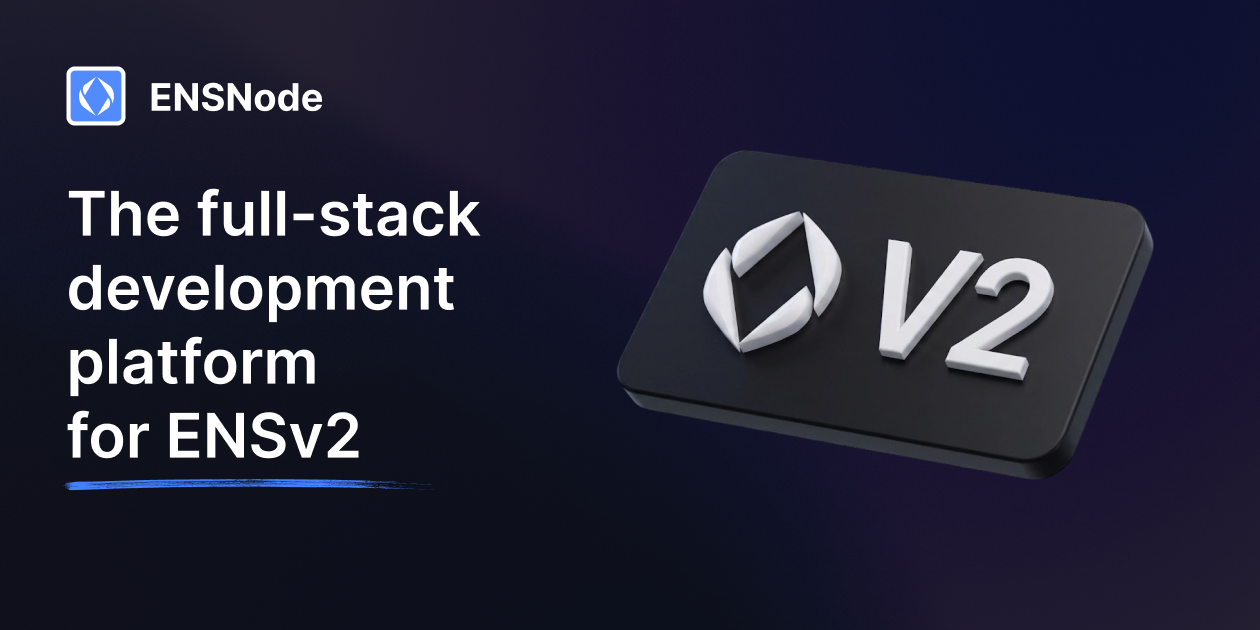
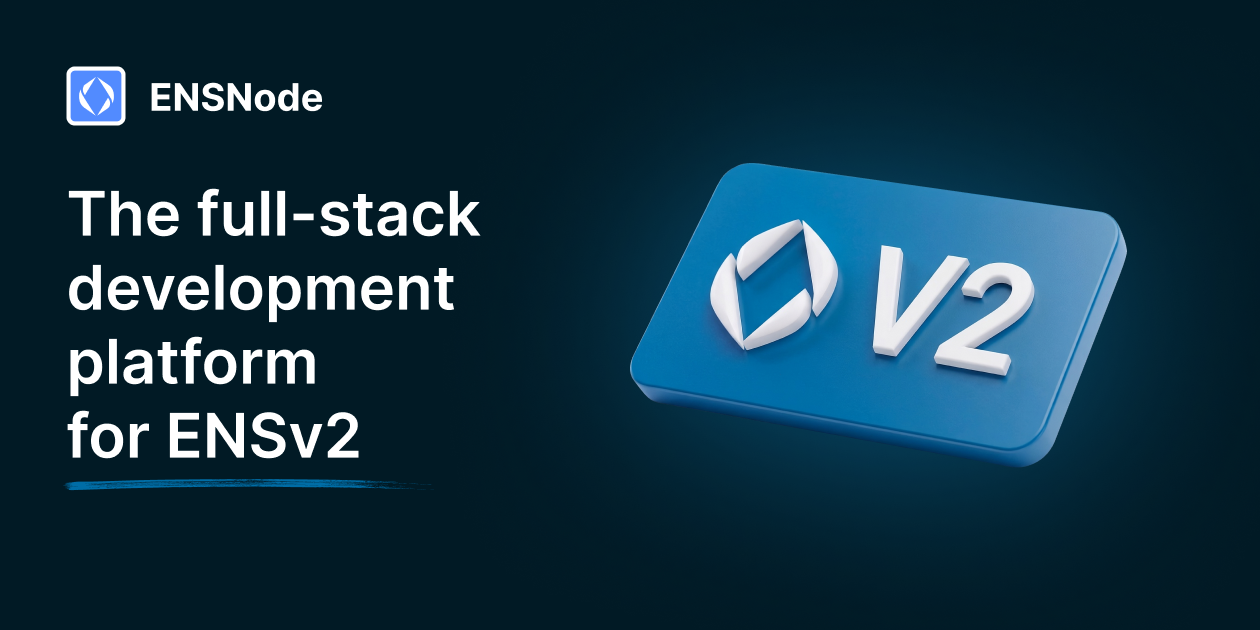
chore(docs): Next tranche of ensnode.io UI/UX refinements (#2201)

Pull request: chore(docs): Next tranche of ensnode.io UI/UX refinements
# Lite PR &rarr; Next tranche of ensnode.io UI/UX refinements

## Summary

Applied all changes requested in the Google Doc linked in the Slack requests, including:
* Restyling of sidebar badges
* Color tweaks for `<Aside>` components
* Color tweaks for text-body links and sidebar selected elements
* Improvements of several docs pages
* Refinements to the styling of code snippets
* Minor bugfixes


---

## Why

- - Changes requested by @user [here](https://namehash.slack.com/archives/C086Z6FNBHN/p1779731277836919)

---

## Testing

- Ran `typecheck`, `lint`, and `test` commands locally to ensure that the migration didn't break anything, and later confirmed that in our CI workflow
- Verified that the UI didn't break after introducing changes using a local and Vercel (build) previews

---

## Notes for Reviewer (Optional)

- Pure UI/UX changes, so I don't think that the changeset log is required
- Feedback item 9 only has a quick fix applied. I'd prefer to add response snippets in a follow-up PR.

---

## Pre-Review Checklist (Blocking)

- [x] This PR does not introduce significant changes and is low-risk to review quickly.
- [x] Relevant changesets are included (or are not required)

diff --git a/docs/ensnode.io/src/styles/starlight.css b/docs/ensnode.io/src/styles/starlight.css
@@ -38,16 +38,16 @@
   --color-gray-950: var(--color-primary-dark);
 
   /* Sidebar active/hover colors */
-  --sidebar-active-bg: rgba(0, 129, 189, 0.1);
-  --sidebar-active-color: #0081bd;
+  --sidebar-active-color: #2563eb;
+  --sidebar-active-bg: color-mix(in srgb, var(--sidebar-active-color) 10%, transparent);
   --sidebar-icon-bg: rgba(128, 128, 128, 0.1);
   --sidebar-icon-color: #9ca3af;
 
   /* Aside colors */
-  --aside-danger-color: #f43f5e;
-  --aside-caution-color: #f97316;
+  --aside-danger-color: #ef4444;
+  --aside-caution-color: #ca8a04;
   --aside-note-color: #3b82f6;
-  --aside-tip-color: #007c23;
+  --aside-tip-color: #16a34a;
 }
 
 /* Starlight-specific variable overrides using global tokens */
@@ -226,6 +226,12 @@ a[rel="prev"]:hover {
   }
 }
 
+.sl-markdown-content > p a:not([role="tab"]):hover,
+.sl-markdown-content :is(ul, ol) > li a:not([role="tab"]):hover,
+starlight-toc a:hover {
+  color: var(--sl-color-accent-high);
+}
+
 .sl-markdown-content :is(h1, h2, h3, h4, h5, h6) > a {
   color: var(--sl-color-white);
   display: inline;
@@ -365,7 +371,7 @@ a.starlight-sidebar-topics-current,
 }
 
 a.starlight-sidebar-topics-current .starlight-sidebar-topics-icon {
-  background-color: rgba(0, 129, 189, 0.15) !important;
+  background-color: color-mix(in srgb, var(--sidebar-active-color) 15%, transparent) !important;
   color: var(--sidebar-active-color) !important;
 }
 
@@ -394,9 +400,31 @@ ul.top-level details details > summary .group-label span {
 }
 
 /* Customize badge styles in the sidebar */
+#starlight__sidebar .sl-badge {
+  font-family: var(--sl-font);
+  font-size: 12px;
+  font-weight: 600 !important;
+  line-height: 14px;
+}
+
 .sl-badge:is(.danger) {
   border-color: var(--aside-danger-color);
   background-color: var(--aside-danger-color);
+}
+
+.sl-badge:is(.success) {
+  border-color: var(--aside-tip-color);
+  background-color: var(--aside-tip-color);
+}
+
+/* Center sidebar badges vertically */
+#starlight__sidebar .group-label:has(.sl-badge) {
+  display: flex;
+  flex-wrap: wrap;
+  flex-direction: row;
+  justify-content: flex-start;
+  align-items: center;
+  gap: 9px;
 }
 
 /* Make sure that social icons in the sidebar do not move on hover */
@@ -470,6 +498,10 @@ starlight-tabs ul[role="tablist"] {
     color: var(--aside-tip-color);
   }
 
+  & code {
+    background-color: color-mix(in srgb, var(--aside-tip-color) 12%, transparent);
+  }
+
   & .sl-link-card:hover {
     border-color: var(--aside-tip-color);
 
@@ -493,6 +525,10 @@ starlight-tabs ul[role="tablist"] {
 
   & a {
     color: var(--aside-danger-color);
+  }
+
+  & code {
+    background-color: color-mix(in srgb, var(--aside-danger-color) 12%, transparent);
   }
 
   & .sl-link-card:hover {
@@ -520,8 +556,12 @@ starlight-tabs ul[role="tablist"] {
     color: var(--aside-caution-color);
   }
 
+  & code {
+    background-color: color-mix(in srgb, var(--aside-caution-color) 12%, transparent);
+  }
+
   & pre {
-    background-color: rgba(103, 61, 73, 0.05);
+    background-color: color-mix(in srgb, var(--aside-caution-color) 5%, transparent);
     border: 1px solid color-mix(in srgb, var(--aside-caution-color) 20%, transparent);
   }
 
@@ -610,4 +650,46 @@ starlight-tabs ul[role="tablist"] {
 }
 .starlight-sidebar-topics a[href*="/reference"] .starlight-sidebar-topics-icon {
   --sidebar-icon: url("../assets/custom-sidebar-icons/reference.svg");
+}
+
+/* Rounded corners for the code snippets in the text-body. */
+
+/* Radius + overflow live on the figure so the horizontal scrollbar inside
+   <pre> gets clipped by the rounded shape instead of overlapping it. */
+.sl-markdown-content .expressive-code .frame:not(.not-content) {
+  border-radius: 12px;
+  overflow: hidden;
+  border-color: color-mix(in srgb, var(--sl-color-gray-5), transparent 25%);
+}
+
+/* Make the background of horizontal scrollbar transparent */
+.sl-markdown-content .expressive-code pre::-webkit-scrollbar {
+  background: transparent;
+}
+
+/* Add margin to the scrollbar track to prevent it from touching the rounded corners */
+.sl-markdown-content .expressive-code pre::-webkit-scrollbar-track {
+  margin-inline: 12px;
+}
+
+/* Other elements are rounded accordingly */
+.sl-markdown-content .expressive-code figcaption:is(.header),
+.sl-markdown-content .expressive-code figcaption:is(.header) > span {
+  border-top-left-radius: 12px;
+  border-top-right-radius: 12px;
+}
+
+.sl-markdown-content .expressive-code pre {
+  border-bottom-left-radius: 12px;
+  border-bottom-right-radius: 12px;
+}
+
+.sl-markdown-content div[role="tabpanel"] > .expressive-code:not(:has(figcaption:not(:empty))) pre {
+  border-radius: 12px;
+}
+
+/* Additional border for the "filename" tab in the code snippets */
+.sl-markdown-content .expressive-code figcaption:is(.header):has(.title:not(:empty)) > span {
+  border-right: 1px solid var(--color-border);
+  border-top: 1px solid var(--color-border);
 }

diff --git a/docs/ensnode.io/config/integrations/starlight/sidebar-topics/integrate.ts b/docs/ensnode.io/config/integrations/starlight/sidebar-topics/integrate.ts
@@ -1,4 +1,5 @@
 export const integrateSidebarTopic = {
+  id: "integrate-with-ensv2",
   label: "Integrate with ENSv2",
   link: "/docs/integrate",
   icon: "rocket",
@@ -185,31 +186,11 @@ export const integrateSidebarTopic = {
         },
         {
           label: "enssdk (TypeScript)",
-          collapsed: false,
-          items: [
-            {
-              label: "Overview",
-              link: "/docs/integrate/integration-options/enssdk",
-            },
-            {
-              label: "Interactive example ⚡",
-              link: "/docs/integrate/integration-options/enssdk/example",
-            },
-          ],
+          link: "/docs/integrate/integration-options/enssdk",
         },
         {
           label: "enskit (React)",
-          collapsed: false,
-          items: [
-            {
-              label: "Overview",
-              link: "/docs/integrate/integration-options/enskit",
-            },
-            {
-              label: "Interactive example ⚡",
-              link: "/docs/integrate/integration-options/enskit/example",
-            },
-          ],
+          link: "/docs/integrate/integration-options/enskit",
         },
         {
           label: "ENS Omnigraph (GraphQL)",

diff --git a/docs/ensnode.io/src/styles/globals.css b/docs/ensnode.io/src/styles/globals.css
@@ -3,9 +3,9 @@
   --font-primary: "Inter", sans-serif;
 
   /* Brand Colors */
-  --color-primary: #0080bc;
-  --color-primary-light: #cee1e8;
-  --color-primary-dark: #093c52;
+  --color-primary: #2563eb;
+  --color-primary-light: #9eb5e8;
+  --color-primary-dark: #1e40af;
 
   /* Neutral Colors */
   --color-background: #fff;
@@ -16,9 +16,9 @@
   --color-text-secondary: #c4c7c8;
 
   /* Status Colors */
-  --color-blue: #0080bc;
-  --color-blue-light: #cee1e8;
-  --color-blue-dark: #093c52;
+  --color-blue: #2563eb;
+  --color-blue-light: #9eb5e8;
+  --color-blue-dark: #1e40af;
   --color-orange: #673d49;
   --color-orange-light: #f8f6d6;
   --color-purple: #f53293;

diff --git a/docs/ensnode.io/src/content.config.ts b/docs/ensnode.io/src/content.config.ts
@@ -2,12 +2,13 @@ import { defineCollection } from "astro:content";
 import { z } from "astro/zod";
 import { docsLoader } from "@astrojs/starlight/loaders";
 import { docsSchema } from "@astrojs/starlight/schema";
+import { topicSchema } from "starlight-sidebar-topics/schema";
 
 export const collections = {
   docs: defineCollection({
     loader: docsLoader(),
     schema: docsSchema({
-      extend: z.object({
+      extend: topicSchema.extend({
         /** Collapse the global sidebar off-canvas on desktop; peek strip expands on hover. */
         sidebarDocked: z.boolean().optional(),
       }),